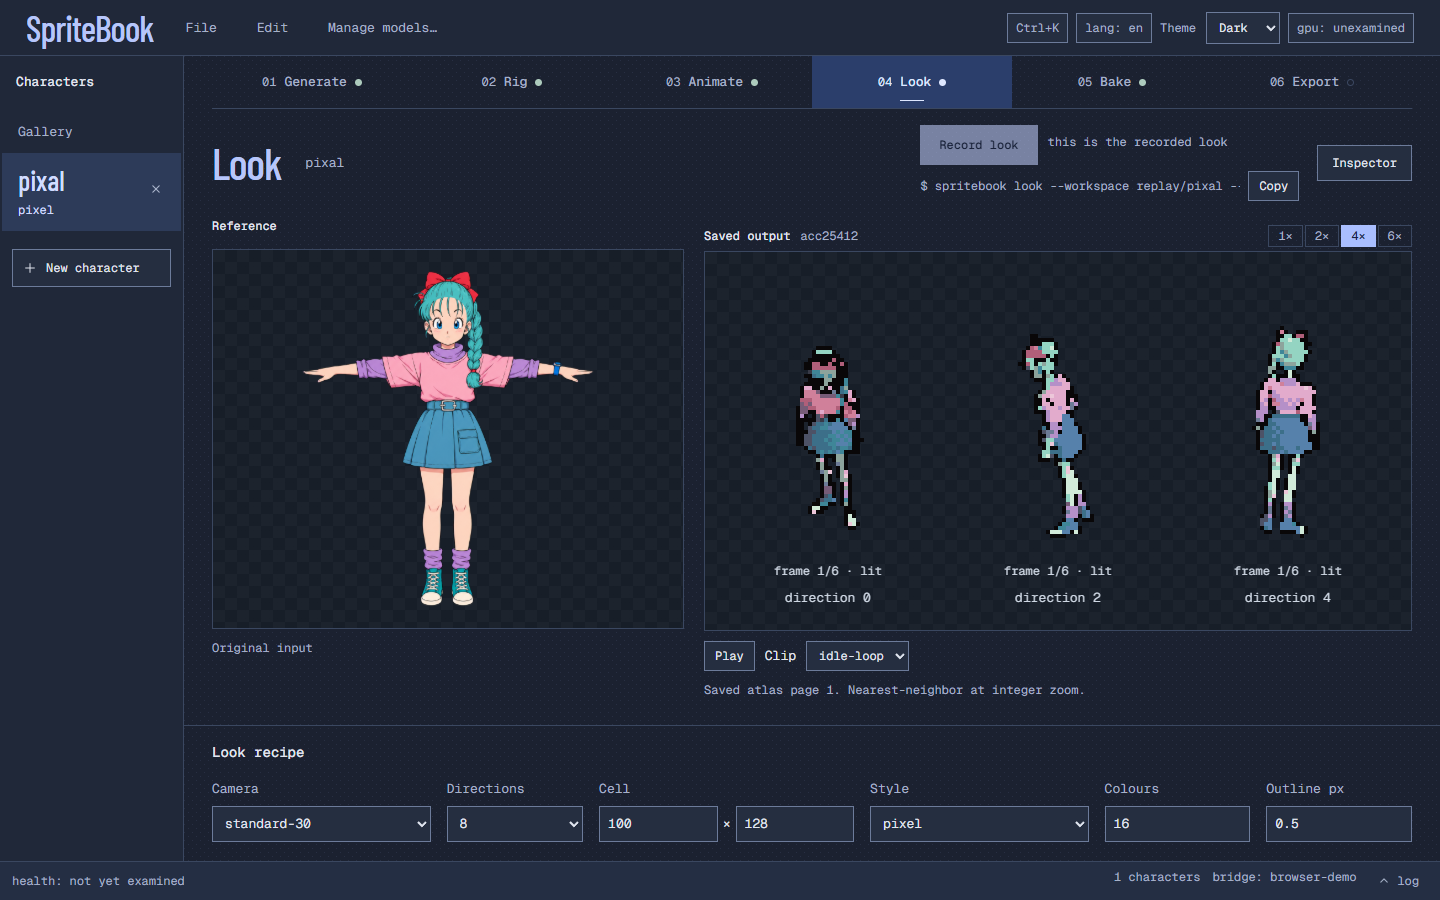
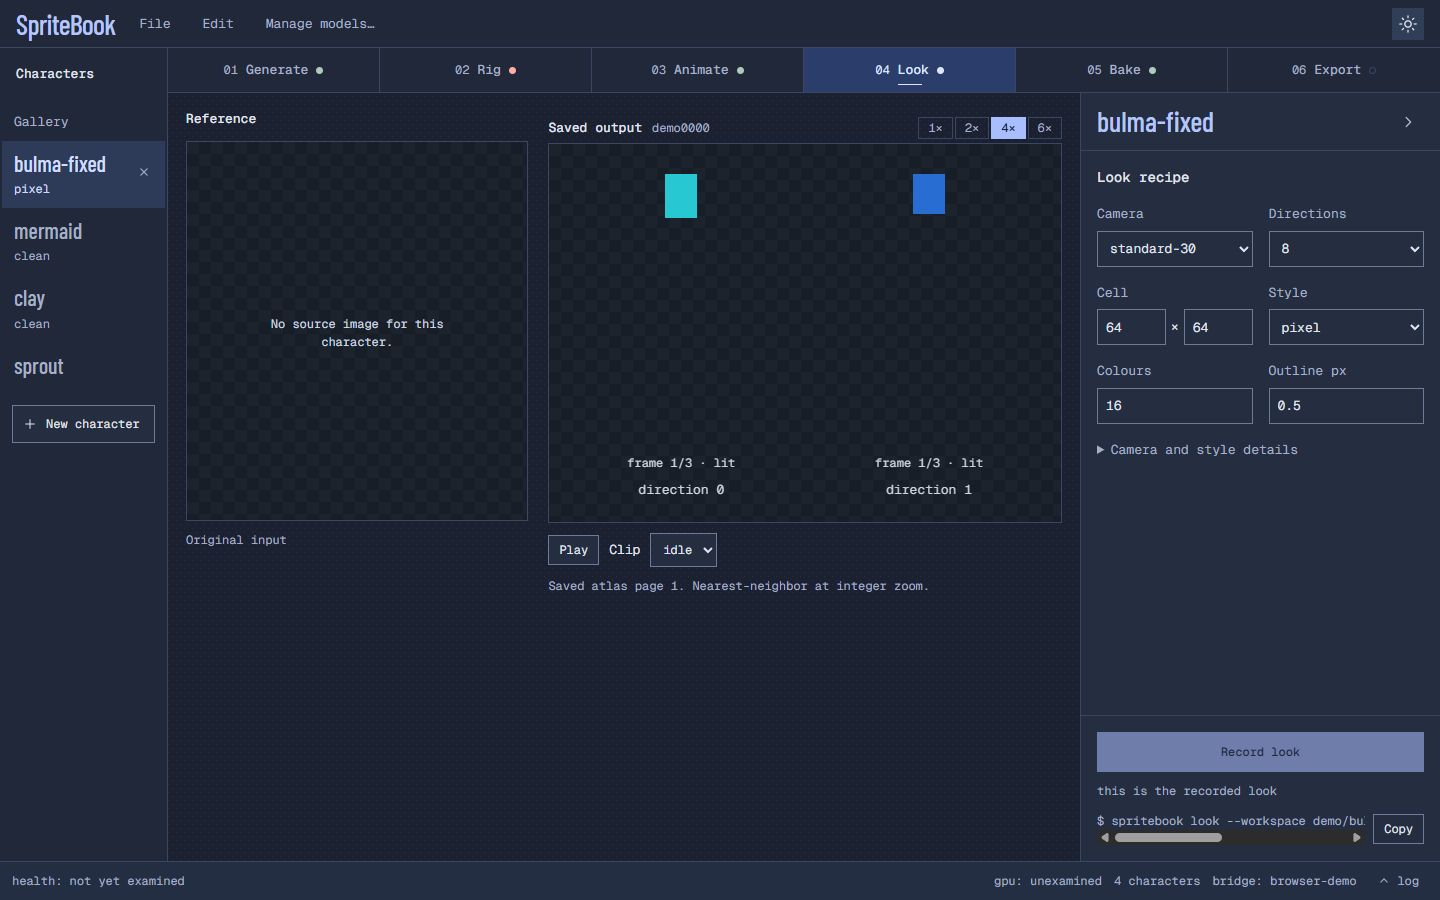
docs(studio): align inspector guidance and previews
F5-T1: document the shared inspector, simplified menus and development-only fixture discovery. Refresh synthetic browser-demo screenshots and preserve F5-T3/F7 native qualification gates.

diff --git a/apps/studio/DESIGN.md b/apps/studio/DESIGN.md
@@ -218,13 +218,13 @@ Workspace texture stays outside images and canvases.
 Font:** Geist Mono (system-ui/sans-serif for body; monospace for compact labels), self-hosted at
 weights 400–600.
 
-The condensed face gives character names and stage titles a clear silhouette; the mono face aligns
-controls, paths, measurements and CLI/log output. The hierarchy uses explicit sizes rather than a
-computed type scale.
+The condensed face gives character names and inspector titles a clear silhouette; the mono face
+aligns controls, paths, measurements and CLI/log output. The hierarchy uses explicit sizes rather
+than a computed type scale.
 
 ### Hierarchy
 
-- **Display:** stage heading (`display`).
+- **Display:** character inspector heading (`display`).
 - **Headline:** compact SpriteBook wordmark (`headline`).
 - **Title:** character names in the index and gallery (`title`).
 - **Body:** general UI and controls (`body`); selected emphasis uses the existing 500/600 weights.
@@ -233,39 +233,40 @@ computed type scale.
 
 ## Layout
 
-The 48px title bar uses a 28px wordmark. The gallery occupies the window without repeating its cards
-in a character index; the 168px index appears only when editing. Stage headings are 28px. The
-six-stage rail is flush with the editing region and divides its full width evenly. New character
-shows that same rail with the later stages locked. Primary navigation retains keyboard focus when
-changing surfaces.
+The 48px title bar vertically centers the compact wordmark, File/Edit menus, model access and a
+sun/moon theme toggle. Language is chosen directly under Edit → Language. File → Shortcuts opens the
+existing command palette; Ctrl+K still works. GPU identification is plain text beside the bottom log
+handle. The gallery occupies the window; the 168px character index appears when editing. The flush
+six-stage rail supplies the stage name, without a second title row.
 
-Generate and Rig use a large canvas/reference region on the left and a 360px property panel on the
-right. Each region scrolls independently. Creation and additional generation keep their action/CLI
-footer visible while settings scroll. Native radio choices show an explicit selection marker;
-installation state and VRAM stay beside names, while selected license details are disclosed.
-Character, backend and generation controls form separate sections. Common generation controls stay
-visible, advanced schema fields and comparison stay under Advanced options. All options still map to
-the catalog and the existing CLI arguments.
+Every stage places its assets or saved output on the left and one full-height property inspector on
+the right, directly beneath the rail. The inspector heading is the character name. It starts open at
+360px, shares its machine-local width between stages, and resizes from 280–560px. Drag the boundary
+or use Left/Right, Home/End; double-click resets the width. A chevron collapses it to a 40px right
+edge and reopens it. Hidden controls retain their drafts and running jobs. The former separate
+manifest-summary inspector is removed.
 
-Candidates occupy a shelf beneath their inspection canvas. Inspect and canonical promotion remain
-visible; recipe variants and per-candidate CLI commands live under More actions. Optional texture
-changes stay under Canonical mesh options. Rig places its actual deform report beneath the mesh;
-orientation, re-run/repair and explicit acceptance occupy the property panel. File-based repairs are
-disclosed. Canvas wells stay dark and source/output pixels are unchanged.
+Settings and assets scroll independently. Creation/generation, Rig, Look and Export retain an
+action/CLI footer while settings scroll. Native model radio choices use a condensed name,
+installation state and memory requirement; only the selected model's terms are disclosed. Common
+properties stay visible and advanced schema fields remain available. Fixture discovery is dev-only,
+last under Development tools, and hidden from production model management. New generation prefers an
+installed visible backend; an explicit selection or a visible prior-result backend is preserved.
+Core catalog entries, historical results and the fixture CLI remain unchanged.
 
-Running jobs show the reported stage and elapsed time. Their units have different costs, so the
-activity indicator is indeterminate and supplies no invented job percentage or ETA. Stage details
-retain raw counts. Cancellation has its own message and receives keyboard focus; failures keep their
-reason. A disabled settings group remains scrollable by keyboard.
+Candidates occupy a shelf beneath the inspection canvas. Rig keeps its deform report beneath the
+mesh. Animation keeps core-retargeted motion on the left, with bindings/library on the right. Look
+retains its source/saved-output comparison and integer pixel zoom, with recipe controls in the
+inspector. Bake reviews and exported folders occupy the asset side. Canvas wells stay dark.
 
-Inspector starts closed; on wide windows its existing resize range is 240–480px, with a 300px
-default. Below 1100px it stacks beneath the stage. Below 760px the workbench panels stack, and the
-rail uses two rows. These browser-preview adaptations do not add mobile platform support: the Tauri
-window minimum remains 960×600.
+Running generation and rig jobs show the reported phase and elapsed time. Their units have different
+costs, so activity remains indeterminate without an invented percentage or ETA. Raw counts stay
+under Stage details. Cancellation has a distinct focused message; failures preserve their reason.
+Disabled settings remain keyboard-scrollable.
 
-Look retains its reference/saved-output comparison and recipe layout. Gallery cards retain their
-fixed width and reflow without stretching sprite pixels. The typography, semantic palette and
-workspace hatch/dither are preserved.
+The two-column layout remains at the 960×600 Tauri minimum. Below 760px, browser preview panels
+stack and the rail uses two rows. This does not add mobile platform support. Typography, semantic
+colors, texture and core-produced pixels are preserved.
 
 ## Elevation & Depth
 
@@ -297,9 +298,9 @@ running actions remain focusable with `aria-busy` and show the functional ring.
 
 ### Chips
 
-Command and locale chips use panel/dim, a strong border and compact padding; hover raises the fill.
-Status tags use thin borders and the semantic outcome roles. Selected segmented controls use the
-selection pair; integer zoom controls use the action pair.
+Header controls share a centered 32px target; sun/moon and inspector chevrons use authored stroke
+SVGs. Status tags use thin borders and the semantic outcome roles. Selected segmented controls use
+the selection pair; integer zoom controls use the action pair.
 
 ### Cards / Containers
 
@@ -328,8 +329,8 @@ padding. Preserve the global focus outline and native select behavior.
 
 The roster uses condensed character names and a selection fill; Up/Down retains its existing
 selection behavior. Stage buttons combine number, label and state dot. The active stage has a solid
-current fill plus an underline; locked stages stay keyboard-reachable and explain their lock.
-Inspector is a disclosure, not a permanently competing column.
+current fill plus an underline; locked stages stay keyboard-reachable and explain their lock. The
+property inspector collapses at its right edge without resetting the stage.
 
 ### Reference and saved output
 

diff --git a/docs/design/design-system.md b/docs/design/design-system.md
@@ -55,7 +55,7 @@ expressed through labels, current-step semantics, dots and lock explanations.
 
 ## Type and texture
 
-- **Barlow Condensed 500**: 28px SpriteBook wordmark and stage heading and character names.
+- **Barlow Condensed 500**: 28px SpriteBook wordmark and character names.
 - **Geist Mono 400–600**: 13px UI body, controls, measurements, paths and CLI/log lines; compact
   annotations remain at least 12px. Use system fallbacks for unsupported glyphs.
 - Both faces are self-hosted under SIL OFL 1.1 with complete notices and source/SHA pins in
@@ -65,28 +65,33 @@ expressed through labels, current-step semantics, dots and lock explanations.
 
 ## Components and copy
 
-The 48px title bar holds File/Edit, model access, palette, locale and theme controls. The gallery
-uses the full window. When editing, the 168px character index lists the loaded roster at left;
-opened characters retain close/Delete and focus behavior. Up/Down moves between index entries. The
-six stages run horizontally and retain lock explanations.
+The 48px title bar centers File/Edit, model access and a sun/moon theme toggle. Choose language
+under Edit → Language; File → Shortcuts opens the existing command palette (Ctrl+K). GPU
+identification is plain status text beside the bottom log handle. The gallery uses the full window;
+editing adds the 168px character index. The flush six-stage rail provides the stage name, without a
+duplicate title row.
 
-The stage heading is 28px. Inspector is a disclosure beside the stage; its existing width and
-keyboard resize controls remain available on wide windows. Below 1100px it stacks beneath the stage,
-where horizontal resize is unnecessary. Below 760px the browser preview stacks the index and
-content; the Tauri window still has a 960×600 minimum.
+Each stage has assets/output left and one property inspector right, extending from the rail to the
+bottom. Its heading is the character name. The 360px default width persists locally and resizes
+between 280–560px by drag or keyboard (Left/Right, Home/End; double-click resets). The edge chevron
+collapses it to 40px without resetting drafts/jobs. The old separate manifest-summary column is
+removed. At the 960×600 desktop minimum these remain two columns; below 760px browser panels stack.
 
-Generate and Rig place the inspection/reference canvas left and a 360px settings panel right.
-Settings and assets scroll independently, with the creation/generation action and CLI twin kept
-visible. The stage rail fills the editing region without outer insets. Native radio choices,
-label/value rows and progressive disclosure carry dense options. Candidates sit beneath their
-canvas; the rig's deformation report sits beneath its mesh. Unknown job durations use named phases
-and elapsed time, without a fabricated percentage or ETA. Cancellation and errors retain focus and
-clear status. Below 760px these panels stack for browser verification.
+Settings and assets scroll independently; generation, Rig, Look and Export keep action/CLI footers
+visible. Native model radio choices emphasize names, install state and memory needs. Advanced
+settings and selected terms are disclosed. The synthetic fixture is under Development tools in dev
+builds and absent from production generation/model-management lists. Core catalog/CLI access and
+existing project provenance are retained. Generation chooses an installed visible backend by
+default; explicit choices and visible prior-result backends win.
 
-Look shows the actual source image beside saved sprites, followed by a horizontal recipe. The
-comparison reuses Bake's atlas player with one clock for its directions. Clip and 1×/2×/4×/6× zoom
-are view controls, not manifest changes. Look opens at 4x, positioning each scrollable full cell
-around its recorded pivot. Subsequent user panning is preserved during playback. The bridge
+Candidates stay below their canvas, deformation reports below the rig mesh, and clip/library
+controls beside core-retargeted motion. Generate/Rig activity shows actual phases and elapsed time
+without fabricated percentages or ETAs. Cancellation and errors retain clear status and focus.
+
+Look shows source and saved sprites on the left, with its recipe and recording action on the right.
+The comparison reuses Bake's atlas player with one clock for its directions. Clip and 1×/2×/4×/6×
+zoom are view controls, not manifest changes. Look opens at 4x, positioning each scrollable full
+cell around its recorded pivot. Subsequent user panning is preserved during playback. The bridge
 currently supplies page 1 of the saved atlas; only frames on that page are shown. Large integer zoom
 scrolls within the well rather than resampling pixels. Missing sources and absent bakes have
 explicit empty states. Extra camera controls remain under "Camera and style details"; stale-frame
@@ -104,15 +109,16 @@ preserve the CLI reason and recovery path.
 
 ## Implementation verification
 
-The identity implementation has 65 Studio tests, alongside TypeScript and production web-build
+The identity implementation has 67 Studio tests, alongside TypeScript and production web-build
 checks. Browser checks cover the six stages, gallery, models, command palette, logs, locked/error
-states and locale growth. Automated WCAG A/AA scans found no violations in those checked states.
-Final light/dark Look captures fit 1440, 1280, 960 and 390px browser widths without horizontal page
-overflow; playback, integer zoom, recipe/reset behavior and theme-invariant canvas pixels were
-checked separately.
+states and locale growth. Automated WCAG A/AA scans found no violations in those checked states. The
+shared inspector was checked at 1440×900 and the 960×600 desktop minimum without horizontal page
+overflow, including expanded locale text; playback, integer zoom, recipe/reset behavior and
+theme-invariant canvas pixels were checked separately.
 
 The guide includes current [light](../img/stage-04-look.png) and
-[dark](../img/stage-04-look-dark.png) captures replaying the preserved `acc25412` bake, not new
-model inference. Native Tauri packaging, platform accessibility and hardware qualification were not
-rerun; F7 remains open. This is the F5-T1 visual slice, not completion of the full F5 editor
-roadmap.
+[dark](../img/stage-04-look-dark.png) UI captures from the explicitly synthetic production browser
+demo. The private saved-asset replay separately checks character layouts without writing project
+files or running inference. Native Tauri packaging, platform accessibility and hardware
+qualification were not rerun; F7 remains open. This is an F5-T1 layout refinement, not completion of
+the full editor roadmap.

diff --git a/docs/guide.md b/docs/guide.md
@@ -16,9 +16,8 @@ button shows the exact command it runs. To work in the terminal instead, read
 This guide is about the app. Read the quickstart first if you want the shortest path to a
 spritesheet.
 
-The gallery image shows the current workbench in browser-demo mode. The Look images show the earlier
-Imprint composition and replay the preserved Pixal3D bake `acc25412` and its original source; they
-are not a new model run. Other examples use synthetic demo data. See the
+The gallery and Look images show the current production browser-demo UI with synthetic data; the
+colored demo frames illustrate controls, not generated character output. See the
 [dark theme](img/stage-04-look-dark.png) as well.
 
 ## 1. Open a project
@@ -39,11 +38,12 @@ workspace. Select **New character** in the gallery header to make another. The l
 appears when editing, where it lets you switch characters without returning to the gallery.
 
 While editing, the character index holds the gallery and the loaded roster. Opened entries can be
-closed with their close control or the Delete key; this leaves the character's files intact. Use
-**Theme** in the compact title bar to select Imprint's light or dark appearance. The status bar at
-the bottom shows the character count, the bridge (which engine runs your commands: `tauri` is the
-real CLI, a browser preview is a demo), and the log handle (opens the session log — every line the
-CLI writes).
+closed with their close control or the Delete key; this leaves the character's files intact. Use the
+sun/moon icon in the compact title bar to switch between light and dark appearances. Choose **Edit →
+Language** for a language; **File → Shortcuts** opens the command palette. The status bar at the
+bottom shows GPU identification, the character count, the bridge (which engine runs your commands:
+`tauri` is the real CLI, a browser preview is a demo), and the log handle (opens the session log —
+every line the CLI writes).
 
 To check your machine, select **Run health exam**. It reports the GPU, the sidecar (the local Python
 helper process that runs the AI models), and the installed models.
@@ -73,9 +73,9 @@ To make a character:
    runtimes replace the historical evaluation-only rasterizers; component terms still apply.
    [Models and local runtimes](models.md) lists each role, hardware requirement and setup.
 
-   Set your expectation for `fixture-gen`. It turns the image's outline into a lathe-like stand-in
-   body. It proves the pipeline without a GPU; it does not produce a likeness. A likeness needs a
-   real backend such as TRELLIS.2 or Pixal3D and an NVIDIA card.
+   Development builds expose `fixture-gen` last under **Development tools**. This synthetic stand-in
+   proves the pipeline without a GPU and does not produce a likeness. Production UI omits it; the
+   CLI remains available for development and existing fixture projects.
 
 5. Check the **Height (m)** field. The default is 1.7. CAUTION: this is the size every later stage
    believes. Sprites frame at pixels-per-metre, so a character that keeps the backend's own scale
@@ -209,8 +209,11 @@ The comparison shows the original source image beside sprites from the saved bak
 nearest-neighbor at 1×, 2×, 4× or 6×; large cells scroll within the dark well. This preview
 currently shows the first atlas page, as labeled. Bake retains its full review controls.
 
-Select **Inspector** to inspect recorded manifest values and the workspace path. Its resize grip
-supports arrow keys on wide windows; on narrower windows the panel stacks below the stage.
+The right-hand inspector is headed by the character name and reaches from the stage rail to the
+bottom. Drag its boundary to resize, or focus the grip and use Left/Right, Home/End; double-click
+resets to 360px. Its chevron collapses/reopens the panel without losing draft settings or stopping
+jobs. Width persists locally (280–560px). This layout applies to every stage; assets and candidate
+choices remain on the left.
 
 CAUTION: every frame key holds the whole recipe, so a look change makes every baked frame stale. The
 stage states the exact frame count before you record. This is all-or-none: there is no partial

diff --git a/future/roadmap.md b/future/roadmap.md
@@ -372,6 +372,14 @@ F4/F7 migration work, even when they touch the same modules as these later impro
 
 ### Retained model and editor cases
 
+**F5-T1 inspector refinement, 2026-10-21:** the character name now heads one full-height,
+resizable/collapsible property inspector across all stages. The stage rail supplies the title;
+assets and candidate choices stay left. Header menus align with the wordmark, language is selected
+under Edit, theme is an icon toggle, shortcuts live under File, and GPU identification is plain
+footer status. Fixture discovery is dev-only, disclosed last; production choices prefer an installed
+visible model while preserving explicit selections and prior-result provenance. Core/CLI/catalog
+contracts are unchanged. Browser and unit checks do not close F5-T3 or F7 native qualification.
+
 **F5-T1 visual slice, 2026-10-20:** the maintainer approved Imprint for implementation on main.
 Studio now has paired light/dark roles, a compact title bar, loaded-character index, horizontal
 six-stage navigation, a disclosed inspector and source/saved-sprite comparison before Look's recipe.
